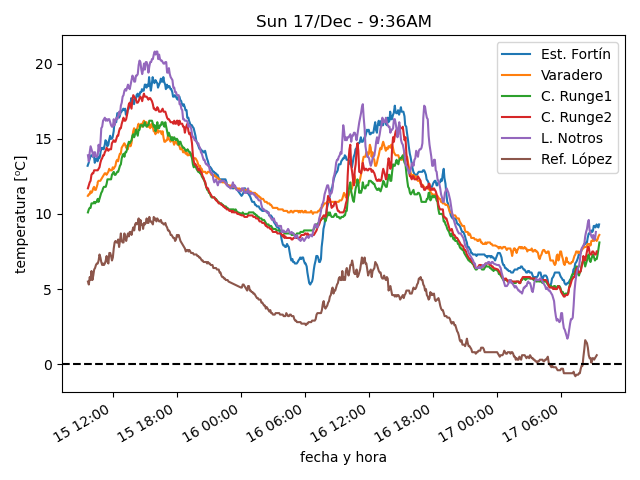
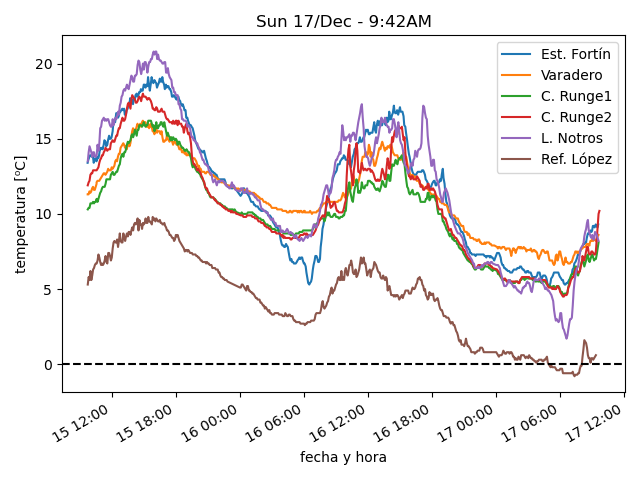
actualiza datos

diff --git a/estaciones/estacion4.html b/estaciones/estacion4.html
@@ -18,22 +18,22 @@
     </tr>
     <tr>
      <td class="stats_data">
-      9:19AM
+      9:39AM
      </td>
     </tr>
     <tr>
      <td class="stats_data">
-      7.5
+      10.2
      </td>
     </tr>
     <tr>
      <td class="stats_data">
-      2.5
+      2.6
      </td>
     </tr>
     <tr>
      <td class="stats_data">
-      70.3
+      59.2
      </td>
     </tr>
     <tr>
@@ -43,7 +43,7 @@
     </tr>
     <tr>
      <td class="stats_data">
-      2.6/4.2 SW
+      3.7/5.5 WSW
      </td>
     </tr>
     <tr>
@@ -53,12 +53,12 @@
     </tr>
     <tr>
      <td class="stats_data">
-      6.0
+      5.0
      </td>
     </tr>
     <tr>
      <td class="stats_data">
-      663.3
+      607.9
      </td>
     </tr>
    </tbody>

diff --git a/estaciones/estacion5.html b/estaciones/estacion5.html
@@ -18,12 +18,12 @@
     </tr>
     <tr>
      <td class="stats_data">
-      9:15AM
+      9:35AM
      </td>
     </tr>
     <tr>
      <td class="stats_data">
-      8.8
+      8.2
      </td>
     </tr>
     <tr>
@@ -33,12 +33,12 @@
     </tr>
     <tr>
      <td class="stats_data">
-      65.0
+      68.0
      </td>
     </tr>
     <tr>
      <td class="stats_data">
-      1016.59
+      1017.1
      </td>
     </tr>
     <tr>
